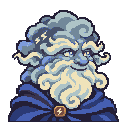
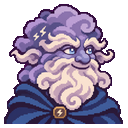
v63: hero movement sprites, student batch 9, headshot upgrades, retire Holmes and Tinker
Claude-Session: https://claude.ai/code/session_019G5bQC3KGAYpQSZdre1Ejx

diff --git a/js/01-data.js b/js/01-data.js
@@ -170,8 +170,8 @@ const HEROES=[
 /* rogues: wanderers of no banner, found only in taverns and freed from prisons on the map */
 HEROES.push(
   {id:'boone',name:'Boone',tav:true,fac:'merfolk',type:'Might',st:[2,1,1,1],ab:'Quickdraw',ad:'Your shooters deal 15% more damage.',sk:['steadyaim'],sp:[],fx:{rangedPct:0.15}},
-  {id:'holmes',name:'Holmes',tav:true,fac:'necro',type:'Magic',st:[0,1,2,2],ab:'Sharp Eyes',ad:'+2 vision, and you see exact enemy army sizes.',sk:['farsight'],sp:['ember'],fx:{vision:2,exact:true}},
-  {id:'tinker',name:'Tinker',tav:true,fac:'dwarves',type:'Might',st:[2,1,1,2],ab:'Wayfinder',ad:'+15% movement every day.',sk:['forcedmarch'],sp:[],fx:{mpPct:15}},
+  {id:'holmes',retired:true,name:'Holmes',tav:true,fac:'necro',type:'Magic',st:[0,1,2,2],ab:'Sharp Eyes',ad:'+2 vision, and you see exact enemy army sizes.',sk:['farsight'],sp:['ember'],fx:{vision:2,exact:true}},
+  {id:'tinker',retired:true,name:'Tinker',tav:true,fac:'dwarves',type:'Might',st:[2,1,1,2],ab:'Wayfinder',ad:'+15% movement every day.',sk:['forcedmarch'],sp:[],fx:{mpPct:15}},
 );
 /* placeholder heroes fill every faction to four; rename them and give them art later */
 HEROES.push(
@@ -330,6 +330,18 @@ HEROES.push(
   {id:'friendo',tav:true,student:true,name:'Friendo',fac:'necro',type:'Magic',st:[0, 1, 3, 2],ab:'Skull Staff',ad:'Skeletons +3 growth per week and +1 defense.',sk:['meditation'],sp:['ember'],fx:{growth:{skeleton:3},unitDef:{skeleton:1}}},
   {id:'teo',tav:true,student:true,name:'Teo',fac:'dwarves',type:'Magic',st:[0, 2, 2, 2],ab:'Clockwork Pharaoh',ad:'Gem Golems +2 defense and +1 attack.',sk:['meditation'],sp:['mend'],fx:{unitDef:{golem:2},unitAtk:{golem:1}}},
   {id:'tida',tav:true,student:true,name:'Tida',fac:'rangers',type:'Might',st:[2, 2, 1, 1],ab:'Buffer',ad:'Antler Knights +2 attack.',sk:['bladework'],sp:['mend'],fx:{unitAtk:{antler:2}}},
+  /* v63: Student Heroes batch 9 */
+  {id:'dee',tav:true,student:true,name:'Dee',fac:'necro',type:'Might',st:[2, 2, 1, 1],ab:'Dragon Blood',ad:'Hellkites +2 attack and +1 defense.',sk:['bladework'],sp:[],fx:{unitAtk:{hellkite:2},unitDef:{hellkite:1}}},
+  {id:'astronaut_steve',tav:true,student:true,name:'Astronaut Steve',fac:'dwarves',type:'Might',st:[2, 2, 1, 1],ab:'Star Suit',ad:'Ram Riders +2 attack and +1 speed.',sk:['shieldcraft'],sp:[],fx:{unitAtk:{ramrider:2},unitSpd:{ramrider:1}}},
+  {id:'h4l1s3',tav:true,student:true,name:'H4L1S3',fac:'merfolk',type:'Magic',st:[0, 1, 3, 2],ab:'Magic Mic',ad:'Sirens +1 attack, and your whole army +1 morale.',sk:['command'],sp:['mend'],fx:{unitAtk:{siren:1},morale:1}},
+  {id:'drew',tav:true,student:true,name:'Drew',fac:'rangers',type:'Might',st:[1, 2, 1, 2],ab:'Sunburst Shield',ad:'Oak Wardens +2 attack and +1 defense.',sk:['shieldcraft'],sp:[],fx:{unitAtk:{oak:2},unitDef:{oak:1}}},
+  {id:'vinay',tav:true,student:true,name:'Vinay',fac:'pirates',type:'Might',st:[2, 1, 1, 2],ab:'Anchor Officer',ad:'Gunners +2 attack and +1 defense.',sk:['seamanship'],sp:[],fx:{unitAtk:{gunner:2},unitDef:{gunner:1}}},
+  {id:'jake',tav:true,student:true,name:'J@ke',fac:'rangers',type:'Magic',st:[0, 1, 3, 2],ab:'Robotic Aura',ad:'Every spell costs 1 less mana, and Moth Seers +1 speed.',sk:['sorcery'],sp:['mend'],fx:{manaCut:1,unitSpd:{moth:1}}},
+  {id:'anna',tav:true,student:true,name:'Anna',fac:'elves',type:'Magic',st:[0, 1, 3, 2],ab:'Moon Staff',ad:'Mend heals 50% more, and Elven Riders +1 speed.',sk:['meditation'],sp:['mend'],fx:{mendPct:1.5,unitSpd:{rider:1}}},
+  {id:'liya',tav:true,student:true,name:'Liya',fac:'wizards',type:'Magic',st:[0, 1, 2, 3],ab:'Floating Lantern',ad:'+2 vision, and Apprentice Mages +1 defense.',sk:['meditation'],sp:['ember'],fx:{vision:2,unitDef:{apprentice:1}}},
+  {id:'trey',tav:true,student:true,name:'Trey',fac:'necro',type:'Might',st:[2, 1, 1, 2],ab:'Three-Blade Scythe',ad:'Vampires +2 attack and +1 speed.',sk:['bladework'],sp:[],fx:{unitAtk:{vampire:2},unitSpd:{vampire:1}}},
+  {id:'boston',tav:true,student:true,name:'Boston',fac:'wizards',type:'Magic',st:[0, 2, 2, 2],ab:'Lightning Shield',ad:'Storm Elementals +2 defense and +1 speed.',sk:['sorcery'],sp:['spark'],fx:{unitDef:{stormel:2},unitSpd:{stormel:1}}},
+  {id:'percifire',tav:true,student:true,name:'Percifire',fac:'centaurs',type:'Magic',st:[0, 1, 3, 2],ab:'Glass Shard',ad:'Centaurs +2 attack, and +1 luck for the whole army.',sk:['meditation'],sp:['ember'],fx:{unitAtk:{centaur:2},luck:1}},
   {id:'eden',name:'Eden',fac:'elves',type:'Magic',st:[0,1,2,2],ab:'Master Archer',ad:'Longbow Rangers +1 damage and +4 shots.',sk:['steadyaim'],sp:[],fx:{unitDmgFlat:{longbow:1},unitShots:{longbow:4}}},
   {id:'letchworth',name:'Letchworth',fac:'merfolk',type:'Magic',st:[0,1,2,2],ab:'Siren Keeper',ad:'Sirens +2 shots and +1 damage.',sk:[],sp:['squall'],fx:{unitShots:{siren:2},unitDmgFlat:{siren:1}}},
 );
@@ -393,7 +405,7 @@ const START_KIT={bear:['command','sash'],perry:['shieldcraft','buckler'],boone:[
   elvis:['command','sash'],mer2:['shieldcraft','kettle'],rocky:['forcedmarch','sash'],letchworth:['meditation','breath']};
 HEROES.forEach(h=>{const k=START_KIT[h.id];if(k){h.sk=[k[0]];h.item=k[1];}});
 /* v41: every hero starts with an artifact (the newer heroes had none) */
-const START_ITEM={'teeka':'inkwell','python_mage':'inkwell','vash':'inkwell','anastasia_may_dvestia':'buckler','babka':'sash','emirk':'buckler','friendo':'inkwell','teo':'inkwell','tida':'buckler','nohahahahah':'errands','yatt':'sash','boja':'buckler','poison':'buckler','paitence_and_jay':'buckler','liam':'buckler','cornelius_ii':'inkwell','ward':'inkwell','sir_quackars':'inkwell','sir_giggachins':'buckler','buffalo':'inkwell','ella':'inkwell','sus':'buckler','samba':'inkwell','alora':'buckler','ezlen':'inkwell','stargirl':'buckler','mangrove':'buckler','gerry':'buckler','bort_simesin':'buckler','gunt_gunt':'buckler','azure_hype':'inkwell','ericsonion':'inkwell','ardcat':'buckler','space_toad':'buckler','mr_pinecone':'buckler','nix':'inkwell','deepwave_the_ai':'inkwell','bobbythebob':'inkwell','capydara':'buckler','lishy':'buckler','kushalito_banana':'buckler','fut_esports':'inkwell','noel_dragonfire':'buckler','luckenzo':'inkwell','lord_krishna':'inkwell','bananna':'inkwell','nala':'inkwell','nanya':'inkwell','posy_spinner':'inkwell','catherine':'inkwell','bristle':'buckler','zenvy':'buckler','king_pharoph_the_3rd':'buckler','rose_flower':'inkwell','posy':'inkwell','bannana_boy':'inkwell','spirit_of_the_forest':'buckler','ava_young':'inkwell','rosie':'inkwell','celestine_circe':'inkwell','estella':'inkwell','lily':'inkwell','pottery':'inkwell','kaf_underworld_pharaoh':'buckler','gus_and_glen':'errands','midge':'inkwell','mags_and_mae':'spark','bloop':'inkwell','gleam':'purse','odo_and_otto':'buckler','aster_and_briar':'breath','rue':'cloak','ned_and_nat':'bracer','spike':'buckler','rafe_and_reed':'purse','bo':'errands','bess_and_bea':'buckler','gilt':'rabbit','fin_and_flo':'breath','vera':'buckler','remy':'spark','ada':'cloak','mara':'candle','ivy':'bracer','lune':'inkwell','hart':'errands','orla':'breath','kit_and_nell':'purse','cato':'inkwell','sid_and_tess':'rabbit','wren':'errands','rumble':'buckler','payton':'rabbit','nissa':'cloak','livingston_cyborg':'bracer','enzo':'buckler','axel':'breath','dot':'errands','gale':'spark','zahara': 'errands', 'tembor': 'buckler', 'cresset': 'candle', 'nessa_holt': 'errands', 'reedcall': 'bracer', 'purl': 'inkwell', 'quillby': 'purse', 'sera_venn': 'breath', 'gliss': 'spark', 'veyra': 'spark', 'graven': 'buckler', 'ossin': 'inkwell', 'murmur': 'cloak', 'rattleclaw': 'whetstone', 'silka': 'candle', 'flintback': 'kettle', 'inkwake': 'cudgel', 'saltjaw': 'whetstone', 'pip_quickline': 'cloak', 'bess_bell': 'errands', 'rusk_hookhorn': 'cudgel', 'ilyra': 'breath', 'tavian': 'whetstone', 'yselle': 'inkwell', 'aster': 'candle', 'thornfrill': 'buckler', 'brynja': 'cudgel', 'tansy': 'bracer', 'kiln': 'kettle', 'harlan_chalk': 'buckler', 'morel': 'rabbit', 'spindle': 'errands', 'skimmer': 'whetstone', 'atoll': 'spark', 'iona_shoal': 'breath', 'nerka': 'cudgel', 'alderhide': 'buckler', 'briar': 'cloak', 'mossback': 'breath', 'virel': 'rabbit'};
+const START_ITEM={'dee':'buckler','astronaut_steve':'buckler','h4l1s3':'inkwell','drew':'buckler','vinay':'buckler','jake':'inkwell','anna':'inkwell','liya':'inkwell','trey':'buckler','boston':'inkwell','percifire':'inkwell','teeka':'inkwell','python_mage':'inkwell','vash':'inkwell','anastasia_may_dvestia':'buckler','babka':'sash','emirk':'buckler','friendo':'inkwell','teo':'inkwell','tida':'buckler','nohahahahah':'errands','yatt':'sash','boja':'buckler','poison':'buckler','paitence_and_jay':'buckler','liam':'buckler','cornelius_ii':'inkwell','ward':'inkwell','sir_quackars':'inkwell','sir_giggachins':'buckler','buffalo':'inkwell','ella':'inkwell','sus':'buckler','samba':'inkwell','alora':'buckler','ezlen':'inkwell','stargirl':'buckler','mangrove':'buckler','gerry':'buckler','bort_simesin':'buckler','gunt_gunt':'buckler','azure_hype':'inkwell','ericsonion':'inkwell','ardcat':'buckler','space_toad':'buckler','mr_pinecone':'buckler','nix':'inkwell','deepwave_the_ai':'inkwell','bobbythebob':'inkwell','capydara':'buckler','lishy':'buckler','kushalito_banana':'buckler','fut_esports':'inkwell','noel_dragonfire':'buckler','luckenzo':'inkwell','lord_krishna':'inkwell','bananna':'inkwell','nala':'inkwell','nanya':'inkwell','posy_spinner':'inkwell','catherine':'inkwell','bristle':'buckler','zenvy':'buckler','king_pharoph_the_3rd':'buckler','rose_flower':'inkwell','posy':'inkwell','bannana_boy':'inkwell','spirit_of_the_forest':'buckler','ava_young':'inkwell','rosie':'inkwell','celestine_circe':'inkwell','estella':'inkwell','lily':'inkwell','pottery':'inkwell','kaf_underworld_pharaoh':'buckler','gus_and_glen':'errands','midge':'inkwell','mags_and_mae':'spark','bloop':'inkwell','gleam':'purse','odo_and_otto':'buckler','aster_and_briar':'breath','rue':'cloak','ned_and_nat':'bracer','spike':'buckler','rafe_and_reed':'purse','bo':'errands','bess_and_bea':'buckler','gilt':'rabbit','fin_and_flo':'breath','vera':'buckler','remy':'spark','ada':'cloak','mara':'candle','ivy':'bracer','lune':'inkwell','hart':'errands','orla':'breath','kit_and_nell':'purse','cato':'inkwell','sid_and_tess':'rabbit','wren':'errands','rumble':'buckler','payton':'rabbit','nissa':'cloak','livingston_cyborg':'bracer','enzo':'buckler','axel':'breath','dot':'errands','gale':'spark','zahara': 'errands', 'tembor': 'buckler', 'cresset': 'candle', 'nessa_holt': 'errands', 'reedcall': 'bracer', 'purl': 'inkwell', 'quillby': 'purse', 'sera_venn': 'breath', 'gliss': 'spark', 'veyra': 'spark', 'graven': 'buckler', 'ossin': 'inkwell', 'murmur': 'cloak', 'rattleclaw': 'whetstone', 'silka': 'candle', 'flintback': 'kettle', 'inkwake': 'cudgel', 'saltjaw': 'whetstone', 'pip_quickline': 'cloak', 'bess_bell': 'errands', 'rusk_hookhorn': 'cudgel', 'ilyra': 'breath', 'tavian': 'whetstone', 'yselle': 'inkwell', 'aster': 'candle', 'thornfrill': 'buckler', 'brynja': 'cudgel', 'tansy': 'bracer', 'kiln': 'kettle', 'harlan_chalk': 'buckler', 'morel': 'rabbit', 'spindle': 'errands', 'skimmer': 'whetstone', 'atoll': 'spark', 'iona_shoal': 'breath', 'nerka': 'cudgel', 'alderhide': 'buckler', 'briar': 'cloak', 'mossback': 'breath', 'virel': 'rabbit'};
 HEROES.forEach(h=>{if(!h.item&&START_ITEM[h.id])h.item=START_ITEM[h.id];});
 /* starting stats: one higher across the board, more on each hero's main stat, and a personal extra point */
 for(const h of HEROES){if(h._st)continue;h._st=1;const r=hash(h.id);h.st=h.st.map(v=>v+1);const main=h.type==='Might'?(h.st[0]>=h.st[1]?0:1):(h.st[2]>=h.st[3]?2:3);h.st[main]+=1+(r%2);h.st[(r>>>3)%4]+=1;}

diff --git a/js/02-art.js b/js/02-art.js
@@ -237,7 +237,7 @@ function drawRelic(c,i,x,y,r){const Rl=RELICS[i];c.save();c.translate(x,y);c.sca
 const ART_BASE='assets/';
 /* Tavern Recruits (v37): 19 portraits packed in portraits/heroes/recruits.png (10 a row, 128 px) so the published copy stays under its file limit.
    Cropped to a data URL once the atlas loads; on file:// (canvas export blocked) or before it loads, use the single file. */
-const RECRUIT_PORT=['alderhide','briar','mossback','ilyra','tavian','yselle','veyra','graven','ossin','spindle','skimmer','atoll','brynja','tansy','kiln','purl','quillby','folio','cresset','inkwake','saltjaw','pip_quickline','zahara','tembor','virel','nessa_holt','reedcall','sera_venn','gliss','murmur','rattleclaw','silka','flintback','bess_bell','rusk_hookhorn','aster','thornfrill','harlan_chalk','morel','iona_shoal','nerka','axel','dot','enzo','gale','livingston_cyborg','nissa','payton','vera','remy','ada','mara','ivy','lune','hart','orla','kit_and_nell','cato','sid_and_tess','wren','rumble','gus_and_glen','midge','mags_and_mae','bloop','gleam','odo_and_otto','aster_and_briar','rue','ned_and_nat','spike','rafe_and_reed','bo','bess_and_bea','gilt','fin_and_flo','bort_simesin','gunt_gunt','azure_hype','ericsonion','ardcat','space_toad','mr_pinecone','nix','deepwave_the_ai','bobbythebob','capydara','lishy','kushalito_banana','fut_esports','noel_dragonfire','luckenzo','lord_krishna','bananna','nala','nanya','posy_spinner','catherine','bristle','zenvy','king_pharoph_the_3rd','rose_flower','posy','bannana_boy','spirit_of_the_forest','ava_young','rosie','celestine_circe','estella','lily','pottery','kaf_underworld_pharaoh','nohahahahah','yatt','boja','poison','paitence_and_jay','liam','cornelius_ii','ward','sir_quackars','sir_giggachins','buffalo','ella','sus','samba','alora','ezlen','stargirl','mangrove','gerry','teeka','python_mage','vash','anastasia_may_dvestia','babka','emirk','friendo','teo','tida'];
+const RECRUIT_PORT=['alderhide','briar','mossback','ilyra','tavian','yselle','veyra','graven','ossin','spindle','skimmer','atoll','brynja','tansy','kiln','purl','quillby','folio','cresset','inkwake','saltjaw','pip_quickline','zahara','tembor','virel','nessa_holt','reedcall','sera_venn','gliss','murmur','rattleclaw','silka','flintback','bess_bell','rusk_hookhorn','aster','thornfrill','harlan_chalk','morel','iona_shoal','nerka','axel','dot','enzo','gale','livingston_cyborg','nissa','payton','vera','remy','ada','mara','ivy','lune','hart','orla','kit_and_nell','cato','sid_and_tess','wren','rumble','gus_and_glen','midge','mags_and_mae','bloop','gleam','odo_and_otto','aster_and_briar','rue','ned_and_nat','spike','rafe_and_reed','bo','bess_and_bea','gilt','fin_and_flo','bort_simesin','gunt_gunt','azure_hype','ericsonion','ardcat','space_toad','mr_pinecone','nix','deepwave_the_ai','bobbythebob','capydara','lishy','kushalito_banana','fut_esports','noel_dragonfire','luckenzo','lord_krishna','bananna','nala','nanya','posy_spinner','catherine','bristle','zenvy','king_pharoph_the_3rd','rose_flower','posy','bannana_boy','spirit_of_the_forest','ava_young','rosie','celestine_circe','estella','lily','pottery','kaf_underworld_pharaoh','nohahahahah','yatt','boja','poison','paitence_and_jay','liam','cornelius_ii','ward','sir_quackars','sir_giggachins','buffalo','ella','sus','samba','alora','ezlen','stargirl','mangrove','gerry','teeka','python_mage','vash','anastasia_may_dvestia','babka','emirk','friendo','teo','tida','dee','astronaut_steve','h4l1s3','drew','vinay','jake','anna','liya','trey','boston','percifire'];
 const recruitCache={};
 function recruitPortrait(id){if(recruitCache[id])return recruitCache[id];const a=artImg('portraits/heroes/recruits.png'),i=RECRUIT_PORT.indexOf(id),file=ART_BASE+`portraits/heroes/${id}_128.png`;
   if(!a.ok)return file;try{const cv=document.createElement('canvas');cv.width=cv.height=128;cv.getContext('2d').drawImage(a.img,(i%10)*128,Math.floor(i/10)*128,128,128,0,0,128,128);return recruitCache[id]=cv.toDataURL();}catch(e){return recruitCache[id]=file;}}
@@ -316,8 +316,17 @@ const unitSheet=(k,col)=>{if(U[k]&&U[k].up)col=upgCol(col);if(ENEMY_ART[k]){cons
 const WALKERS=['perry','battaglia','engelman','rimmer','sookie','tempest','bear','boopis','monkey','parker','rago','schmickle','shadow','necro4'],walkCache={};
 const walkerSheet=id=>{const i=WALKERS.indexOf(id);if(i<0)return null;if(walkCache[id])return walkCache[id];const a=artImg('heroes/walkers.png');if(!a.ok)return null;
   const cv=document.createElement('canvas');cv.width=192;cv.height=384;cv.getContext('2d').drawImage(a.img,(i%7)*192,Math.floor(i/7)*384,192,384,0,0,192,384);return walkCache[id]=cv;};
-const heroSheet=(id,col)=>{if(!ART_MAP.has(id)&&WALKERS.includes(id)){const w=walkerSheet(id);if(w)return w;}if(ART_MAP.has(id)){const m=MAP_SRC[id]||id;return tinted(`heroes/${m}/map/${m}_map_sheet.png`,`team_masks/heroes/${m}/map/${m}_map_sheet.png`,col);}const f=HBY[id]&&HBY[id].fac;if(!f)return null;const a=artImg(`heroes/_banners/${f}_map_sheet.png`);return a.ok?a.img:null;};
-function preloadArt(){artImg('heroes/walkers.png');artImg('portraits/heroes/recruits.png');artImg('map/world_extras.png');artImg('towns/extra_buildings.png');for(const g of['meadow','dirt','sand','snow','marsh','cavern','ash','ship_deck'])artImg(`battle/grounds/${g}.png`);for(const n of['split_boulder','basalt_columns','leaning_monolith','stone_arch'])artImg(`terrain/battle/${n}_battle.png`);for(const id0 of ART_MAP){const id=MAP_SRC[id0]||id0;artImg(`heroes/${id}/map/${id}_map_sheet.png`);artImg(`team_masks/heroes/${id}/map/${id}_map_sheet.png`);}
+/* v63: Movement Sprites pack: each hero's own battle figure (on foot: 6 poses in 96x64 cells, two heroes a row of foot.png; mounted: 8 poses a row of mounted.png) and mounted map walkers (walkers_mounted.png, 192x384 sheets, 7 a row) */
+const HERO_FOOT=['battaglia','tida','vinay','dorothy','perry','vargas','omalley','boston','jake','liya','sir_quackars','rimmer','engelman','anastasia_may_dvestia','anna','astronaut_steve','bear','buffalo','dupengeiser','ezlen','grimes','ivan','rocky','shadow','vash','babka','boja','dee','eden','ella','gerry','h4l1s3','trey','kiln','percifire','poison','rumble','samba','schmickle','stargirl','sus','teo','alderhide','alora','axel','bess_and_bea','bo','boopis','cornelius_ii','cresset','drew','elvis','emirk','estella','flintback','friendo','gale','gunt_gunt','inkwake','lawrence','letchworth','mangrove','monkey','nohahahahah','paitence_and_jay','parker','python_mage','rago','reedcall','skimmer','slack','sookie','teeka','tempest','necro4','yatt','ava_young','azure_hype','bannana_boy','binx','bort_simesin','cato','celestine_circe','enzo','ericsonion','fin_and_flo','gilt','gliss','mer2','gus_and_glen','harlan_chalk','love','lune','mr_pinecone','murmur','nerka','nix','ossin','posy','space_toad','spirit_of_the_forest','veyra','ward','ardcat','aster','bobbythebob','briar','capydara','dot','gleam','graven','hart','iona_shoal','kaf_underworld_pharaoh','kit_and_nell','kushalito_banana','lily','nissa','orla','pip_quickline','pottery','rattleclaw','rose_flower','virel','ada','bloop','bristle','deepwave_the_ai','ilyra','lishy','midge','nala','noel_dragonfire','payton','remy','rosie','rue','silka'],HERO_MOUNT=['battaglia','tida','vinay','dorothy','perry','vargas','omalley','michael','sir_giggachins','liam','anastasia_may_dvestia','oliver','sheila','eden','davis','livingston','nessa_holt','sera_venn','vera','boone','tavian','zahara','ivy','zenvy'],WALK_MOUNT=['battaglia','tida','vinay','dorothy','perry','vargas','omalley','michael','sir_giggachins','liam','anastasia_may_dvestia','oliver','sheila','eden','davis','livingston','nessa_holt','sera_venn','vera','boone','tavian','zahara','zenvy'];
+const HF_POSE={idle:0,move:1,attack:3,hit:4,death:5},HM_POSE={idle:0,move:1,attack:5,hit:6,death:7};
+function heroFigure(h,pose){const id=h&&h.id;if(!id)return null;const mi=h.mount==='horse'||!HERO_FOOT.includes(id)?HERO_MOUNT.indexOf(id):-1;
+  if(mi>=0){const a=artImg('battle/heroes/mounted.png');if(a.ok)return{img:a.img,sx:(HM_POSE[pose]||0)*96,sy:mi*64};}
+  const i=HERO_FOOT.indexOf(id);if(i<0)return null;const a=artImg('battle/heroes/foot.png');if(!a.ok)return null;return{img:a.img,sx:(i%2)*576+(HF_POSE[pose]||0)*96,sy:Math.floor(i/2)*64};}
+const walkMCache={};
+const walkerMounted=id=>{const i=WALK_MOUNT.indexOf(id);if(i<0)return null;if(walkMCache[id])return walkMCache[id];const a=artImg('heroes/walkers_mounted.png');if(!a.ok)return null;
+  const cv=document.createElement('canvas');cv.width=192;cv.height=384;cv.getContext('2d').drawImage(a.img,(i%7)*192,Math.floor(i/7)*384,192,384,0,0,192,384);return walkMCache[id]=cv;};
+const heroSheet=(id,col,mounted)=>{if(mounted){const m=walkerMounted(id);if(m)return m;}if(!ART_MAP.has(id)&&WALKERS.includes(id)){const w=walkerSheet(id);if(w)return w;}if(ART_MAP.has(id)){const m=MAP_SRC[id]||id;return tinted(`heroes/${m}/map/${m}_map_sheet.png`,`team_masks/heroes/${m}/map/${m}_map_sheet.png`,col);}const f=HBY[id]&&HBY[id].fac;if(!f)return null;const a=artImg(`heroes/_banners/${f}_map_sheet.png`);return a.ok?a.img:null;};
+function preloadArt(){artImg('heroes/walkers.png');artImg('heroes/walkers_mounted.png');artImg('battle/heroes/foot.png');artImg('battle/heroes/mounted.png');artImg('portraits/heroes/recruits.png');artImg('map/world_extras.png');artImg('towns/extra_buildings.png');for(const g of['meadow','dirt','sand','snow','marsh','cavern','ash','ship_deck'])artImg(`battle/grounds/${g}.png`);for(const n of['split_boulder','basalt_columns','leaning_monolith','stone_arch'])artImg(`terrain/battle/${n}_battle.png`);for(const id0 of ART_MAP){const id=MAP_SRC[id0]||id0;artImg(`heroes/${id}/map/${id}_map_sheet.png`);artImg(`team_masks/heroes/${id}/map/${id}_map_sheet.png`);}
   for(const k of Object.keys(ART_STRIPS))artImg(stripPath(k));
   for(const n of Object.values(ENEMY_ART)){artImg(`enemies/${n}/sheet.png`);artImg(`map/guards/${n}_32.png`);}
   for(const[n]of Object.values(MINE_ART))artImg(`map/mines/${n}.png`);for(const f of Object.keys(FLAG_COLS))artImg(`map/flags/${f}.png`);for(const p of['arrow','bolt','ember','rock','spit','spell_orb'])artImg(`projectiles/${p}.png`);

diff --git a/js/08-battle.js b/js/08-battle.js
@@ -246,7 +246,7 @@ async function aiTurn(s){
   if(tgt){await moveTo(s,tgt.c,tgt.r,rm);logB(`${nm(s)} advance.`);}else{s.defending=true;logB(`${nm(s)} brace their defense.`);}
 }
 /* the enemy hero casts one spell a round from their banner's list (v30); Warding reduces the damage */
-async function enemyCast(){const eh=bt.enemyHero,P=Math.max(1,eh.pow||1),ward=1-0.15*skL('warding');const book=FAC_SPELLS[eh.fac]||[];
+async function enemyCast(){bt.heroAct={side:1,t:performance.now()};const eh=bt.enemyHero,P=Math.max(1,eh.pow||1),ward=1-0.15*skL('warding');const book=FAC_SPELLS[eh.fac]||[];
   const mine=bt.stacks.filter(s=>s.alive&&s.side===0),own=bt.stacks.filter(s=>s.alive&&s.side===1);if(!mine.length||!own.length)return;
   const can=k=>book.includes(k)&&SP[k].cost<=bt.eMana;const worth=s=>unitValue(s)*s.n;const big=mine.slice().sort((a,b)=>worth(b)-worth(a))[0],bigOwn=own.slice().sort((a,b)=>worth(b)-worth(a))[0];
   const dmgOf={ember:15+10*P,frost:14+9*P,squall:8+6*P,chain:12+8*P,meteor:25+14*P,starfall:10+6*P};
@@ -261,6 +261,7 @@ async function enemyCast(){const eh=bt.enemyHero,P=Math.max(1,eh.pow||1),ward=1-
   }finally{curSpell=null;}updateBattleUI();}
 async function towersFire(){const mine=bt.stacks.filter(s=>s.alive&&s.side===0);for(let i=0;i<2&&mine.some(s=>s.alive);i++){const t=pick(mine.filter(s=>s.alive)),dm=Math.round((20+8*weekNo())*monMul());await burst(t,'#ffcf6a');const k=applyDmg(t,dm);floatAt(t,`-${dm}`,'#ffcf6a');logB(`A tower shoots ${nm(t)} for ${dm}.${k?` ${k} fall.`:''}`);}updateBattleUI();}
 async function castSpell(id,target){
+  bt.heroAct={side:0,t:performance.now()};
   const P=Math.round(hst(HERO(),'pow')*(1+0.15*skL('sorcery')));HERO().mana-=spellCost(id);bt.spellCast=true;renderUI();
   const echoN=S.fac==='wizards'?(fx().echo||1):0;const times=bt.spellsCast<echoN?2:1;bt.spellsCast++;
   for(let i=0;i<times;i++){
@@ -353,8 +354,10 @@ function drawBattleHero(c,h,col,x,y,flip,canAct){
   {const kk=Math.min(BL.side*0.95/96,BL.h*0.32/128);y=Math.round(10+124*kk-15*sc);}
   c.save();c.fillStyle='rgba(0,0,0,.35)';c.beginPath();c.ellipse(x,y+30*sc/2,BL.side*0.38,8,0,0,7);c.fill();
   c.strokeStyle=col;c.lineWidth=2;c.stroke();
-  {const bf=h.fac||(HBY[h.id]&&HBY[h.id].fac),im=bf&&tintedPacked(`battle/heroes/${bf}.png`,col,'h');
-   if(im){const k=Math.min(BL.side*0.95/96,BL.h*0.32/128);c.translate(x,y+15*sc);if(flip)c.scale(-1,1);c.imageSmoothingEnabled=false;c.drawImage(im,-48*k,-124*k,96*k,128*k);c.restore();}
+  {const act=bt.heroAct&&bt.heroAct.side===(flip?1:0)&&now-bt.heroAct.t<500,fig=heroFigure(h,act?'attack':'idle');
+   const bf=h.fac||(HBY[h.id]&&HBY[h.id].fac),im=!fig&&bf&&tintedPacked(`battle/heroes/${bf}.png`,col,'h');
+   if(fig){const s=2*Math.min(BL.side*0.95/96,BL.h*0.32/128);c.translate(x,y+15*sc);if(flip)c.scale(-1,1);c.imageSmoothingEnabled=false;c.drawImage(fig.img,fig.sx,fig.sy,96,64,-48*s,-60*s,96*s,64*s);c.restore();}
+   else if(im){const k=Math.min(BL.side*0.95/96,BL.h*0.32/128);c.translate(x,y+15*sc);if(flip)c.scale(-1,1);c.imageSmoothingEnabled=false;c.drawImage(im,-48*k,-124*k,96*k,128*k);c.restore();}
    else{const f0=h.face;h.face=flip?'w':'e';c.translate(x-TS/2*sc,y-TS/2*sc-6*sc);c.scale(sc,sc);drawHero(c,0,0,h,col);h.face=f0;c.restore();}}
   c.font=`800 ${Math.max(11,BL.side*0.13)}px "Alegreya SC",Georgia,serif`;c.textAlign='center';c.textBaseline='top';c.fillStyle='#f2d382';c.strokeStyle='#120f0b';c.lineWidth=3;
   c.strokeText(h.name,x,y+20*sc);c.fillText(h.name,x,y+20*sc);

diff --git a/js/03-map.js b/js/03-map.js
@@ -1132,7 +1132,7 @@ function drawHero(c,x,y,h=HERO(),col=teamCol()){
   const onLake=tileAt(Math.round(x),Math.round(y))===T.LAKE;
   const mode=onLake?(h.boat||h.fac==='pirates'?'boat':'swim'):(h.mount||(h.fac==='centaurs'?'hooves':'horse'));
   c.lineWidth=1.2;
-  const sheet=mode!=='boat'&&mode!=='swim'?heroSheet(h.id,col):null;
+  const sheet=mode!=='boat'&&mode!=='swim'?heroSheet(h.id,col,h.mount==='horse'):null;
   if(sheet){const row=Math.max(0,ART_DIRS.indexOf(h.face||'s')),fr=moving&&!bt&&h===HERO()?Math.floor(performance.now()/120)%4:0;
     c.fillStyle='rgba(0,0,0,.4)';c.beginPath();c.ellipse(cx,cy+15,14,5,0,0,7);c.fill();c.strokeStyle=col;c.lineWidth=2;c.beginPath();c.ellipse(cx,cy+15,14,5,0,0,7);c.stroke();
     c.imageSmoothingEnabled=false;c.drawImage(sheet,fr*48,row*48,48,48,Math.round(cx-24),Math.round(cy+16-44),48,48);return;}

diff --git a/CLAUDE.md b/CLAUDE.md
@@ -223,6 +223,12 @@ Everything lives in one object, `S`, so it can be saved as JSON:
 - New ability hooks (player side only): `forgePlus` (extra Great Forge attack), `armyDef` (whole army defense), `rangedPct` (shooter damage), `halfCost` (one spell at half mana), `manaCut` (all spells cheaper), `squallPct`, `weakenPct`.
 - Raised: Ivan (Forge half ore, +1 more attack), Oliver (30% cheaper rough ground, +5% movement), Shadow (harvest 20%), Sheila (Squall +30%), Grimes and Griffiths (+1 speed to their troop). Made distinct: Veyra, Gliss, Silka, Murmur, Boone, Mossback, Aster, Nessa Holt. Trimmed: Schmickle and Quillby to +200 gold a day. Battaglia is a Might hero.
 
+### v63 movement sprites, batch 9, headshot upgrades
+
+- Movement Sprites pack: each hero's own battle figure replaces the banner figure in `drawBattleHero` (`heroFigure(h, pose)`: on foot from `battle/heroes/foot.png`, two heroes a row, six 96x64 cells each (64-wide frames centred), poses idle, move A, move B, attack, hit, defeat; mounted from `battle/heroes/mounted.png`, one hero a row, eight 96x64 poses, used when `h.mount==='horse'` or the hero has no on-foot strip; pivot 48,60, faces east, flipped for the enemy). The figure plays its attack pose for half a second when its side casts (`bt.heroAct`, set in `castSpell` and `enemyCast`). Mounted map walkers: `heroes/walkers_mounted.png` (192x384 sheets, 7 a row, `WALK_MOUNT`, `walkerMounted`), used by `heroSheet(id, col, mounted)` when the hero rides a horse. Lists: `HERO_FOOT`, `HERO_MOUNT`, `WALK_MOUNT` in `02-art.js` (pack ids `griffiths`, `william_iv`, `image_3` map to `mer2`, `necro4`, `trey`). 142 heroes have a figure; the 24 without one keep the banner figure (see `ART_REQUEST_NEXT.md`).
+- Student Heroes batch 9 (`student:true, tav:true`, after Tida): Necromancers Dee (Hellkites) and Trey (the pack's "image 3", Vampires); Dwarves Astronaut Steve (Ram Riders); Merfolk H4L1S3 (Sirens, +1 morale); Rangers Drew (Oak Wardens) and J@ke (spells cost 1 less, from the student); Pirates Vinay (Gunners); Elves Anna (Mend +50%); Wizards Liya (+2 vision) and Boston (Storm Elementals); Beastmasters Percifire (Centaurs, +1 luck). `RECRUIT_PORT`/`recruits.png` hold 151 portraits.
+- Headshot Workshop 02 portraits (magenta keyed out, 128 px) replace Boopis, Engelman, Rimmer, Tempest, Rago and Binx. Retired: Holmes and Tinker.
+
 ### v62 roster trim
 
 - Retired (art not liked): Dot, Gliss, Gleam, Ivy, Rue and Bananna (Banana Boy stays). Tida is back to his first portrait (the hooded one from batch 7). Sookie and Tempest upgrades and a three-eyed King Pharoph the 3rd are on `ART_REQUEST_NEXT.md`.

diff --git a/ART_REQUEST_NEXT.md b/ART_REQUEST_NEXT.md
@@ -14,6 +14,14 @@ Match the existing packs: warm storybook pixel art, dark plum outline (#2b1a33),
 ## 3. Hero map walkers (biggest visual gap)
 About 140 heroes walk the map as their banner's generic figure. One 192×384 sheet per hero (4 frames × 8 directions, 48×48 frames, foot at 24,44), packed 7 sheets a row with a JSON of hero id → cell. Start with each banner's first 8 heroes (about 46 still missing), then the rest of the 16.
 
+## 0. Current list (v63, 2026-11-15)
+
+**Portraits still in the old style** (based on the Hero Book): Sookie, Bear, Monkey, William IV, Eden, Michael, Dusty, Hush, Dupengeiser, Grimes, Ivan, Slack, Kiln, Schmickle, Boone, Rocky, Letchworth, Eelvis, Skimmer, Inkwake (as a blue ink squid captain), plus King Pharoph the 3rd with three eyes. Already updated in v63 from Headshot Workshop 02: Boopis, Engelman, Rimmer, Tempest, Rago, Binx.
+
+**Battle figures still missing** (Movement Sprites format: on foot, 6 poses, 64x64 or 96x64): Mossback, Fern, Spindle, Coral, Penny, India, Rusk Hookhorn, Thornfrill, Mara, Sid & Tess, Wren, Mags & Mae, Odo & Otto, Aster & Briar, Ned & Nat, Spike, Rafe & Reed, Fut, Luckenzo, Larishna, Nanya, Posy Spinner, Katherine, King Pharoph the 3rd.
+
+**Map walkers on foot**: 148 of 166 heroes still walk the map as their banner's walker. A personal on-foot walker (48x48, 4 phases x 8 directions, like the mounted ones) would be the next biggest visual step. Mounted map walkers exist for 23 heroes; the rest ride as their on-foot walker.
+
 ## 4. Portrait redraws to match the newer style
 These older portraits look flatter and darker than the rest: Bear, Monkey, Binx, Boopis, Schmickle, Engelman, Rimmer, Tempest, Rago, William IV, Grimes, Ivan, Dupengeiser, Slack, Kiln, Rocky, Eelvis, Skimmer, Inkwake (blue ink squid). Same 128×128 format, transparent background, chest-up bust facing slightly right; keep each character recognisable.
 

diff --git a/LEGAL.md b/LEGAL.md
@@ -63,6 +63,7 @@ No other libraries, images or audio are included. Art made later with ChatGPT or
 | Legacy Portrait Redesigns (10) and Student Heroes batches 1, 3, 4, 5 (36 portraits) in `assets/portraits/heroes/` and `recruits.png` | Supplied by the author (generated pixel art, ChatGPT, from students' Create a hero worksheets) | 2026-11-14 | Characters designed by students, used with the author's permission |
 | Student Heroes batches 6 and 7 (19 new portraits and a redrawn Estella) in `assets/portraits/heroes/` and `recruits.png` | Supplied by the author (generated pixel art, ChatGPT, from students' Create a hero worksheets) | 2026-11-14 | Characters designed by students, used with the author's permission |
 | Batch 08 Hero Fixes (9 new student heroes; redrawn Gilt, Bess & Bea, Rumble, Livingston, Love) in `assets/portraits/heroes/` and `recruits.png` | Supplied by the author (generated pixel art, ChatGPT, from students' worksheets and the author's notes) | 2026-11-15 | Student characters used with the author's permission |
+| Movement Sprites (hero battle figures, mounted battle figures and mounted map walkers) in `assets/battle/heroes/foot.png`, `mounted.png` and `assets/heroes/walkers_mounted.png`; Student Heroes batch 9 portraits; Headshot Workshop 02 portraits (Boopis, Engelman, Rimmer, Tempest, Rago, Binx) | Supplied by the author (generated pixel art, ChatGPT) | 2026-11-15 | Student characters used with the author's permission |
 | Half-size move cursor (`assets/ui/cursors/move_small.png`) | Downscaled locally from Pack 09's move cursor | 2026-11-08 | Same as above |
 
 The generated source images (high-res magenta PNGs) are kept outside this repo.
